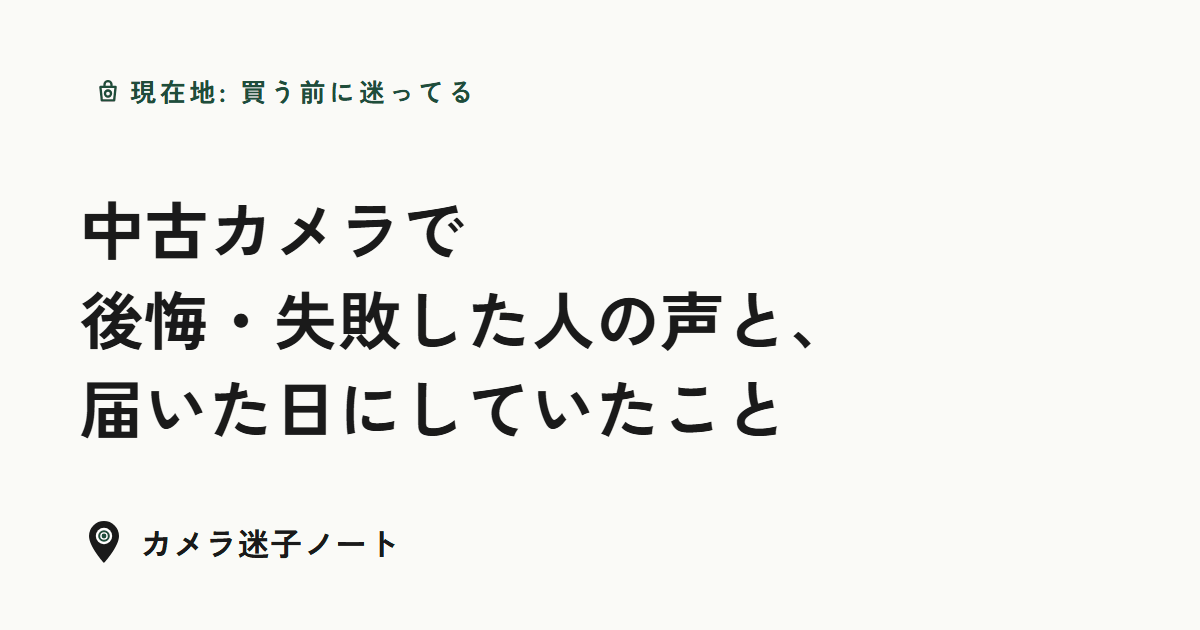
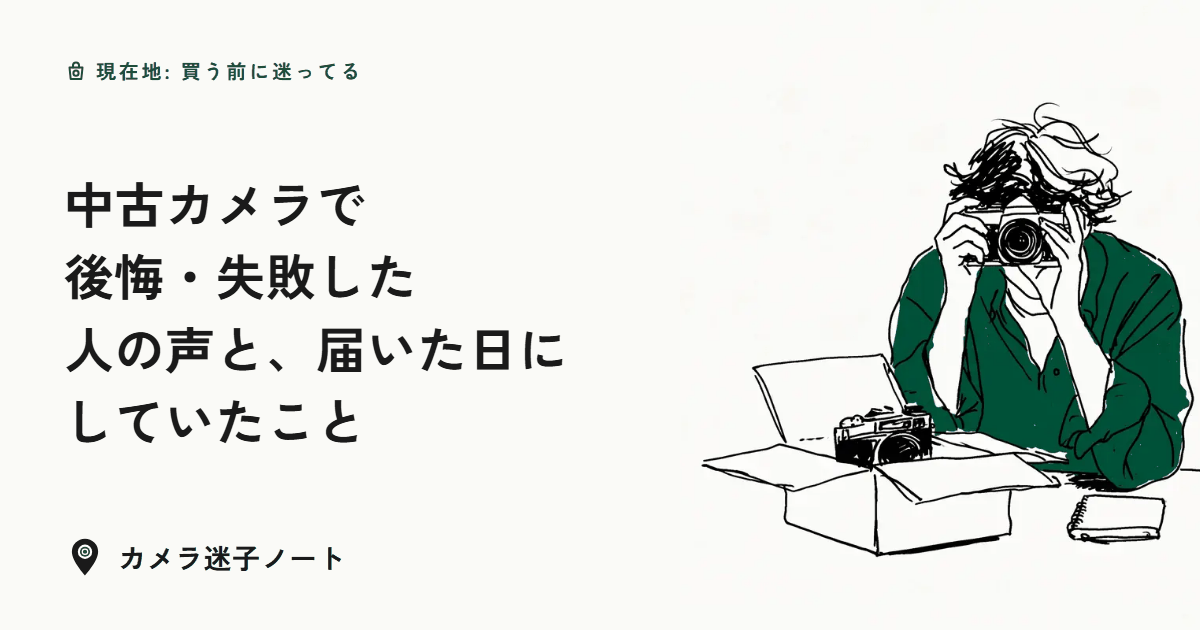
Add eyecatch illustrations for chuko, tsuzukanai, erabikata (MJ v8.2 line art), regenerate their OGP

diff --git a/chuko/index.html b/chuko/index.html
@@ -13,7 +13,7 @@
 <meta property="og:description" content="中古カメラで後悔・失敗した人の声を77人分読むと、気をつける点は3つでした。買う前に店の初期不良の受付期間と保証の例外を見る、届いた日に試す、フリマは受取評価の前に連絡する。専門店でも外れた人、フリマでうまくいった人の両方の声と、キタムラ・フジヤ・マップカメラの条件(2026年10月時点)、型落ち機の修理対応期間の調べ方も。">
 <meta property="og:url" content="https://uuhai0625.github.io/camera-maigo-note/chuko/">
 <meta property="og:locale" content="ja_JP">
-<meta property="og:image" content="https://uuhai0625.github.io/camera-maigo-note/chuko/ogp.png?v=90982f4f">
+<meta property="og:image" content="https://uuhai0625.github.io/camera-maigo-note/chuko/ogp.png?v=077e0e13">
 <meta property="og:image:width" content="1200">
 <meta property="og:image:height" content="630">
 <meta name="twitter:card" content="summary_large_image">
@@ -27,7 +27,7 @@
 <link rel="stylesheet" href="../style.css">
 <script src="../ga.js" defer></script>
 <script type="application/ld+json">
-{"@context": "https://schema.org", "@graph": [{"@type": "Article", "headline": "中古カメラで後悔・失敗した人の声と、届いた日にしていたこと", "description": "中古カメラで後悔・失敗した人の声を77人分読むと、気をつける点は3つでした。買う前に店の初期不良の受付期間と保証の例外を見る、届いた日に試す、フリマは受取評価の前に連絡する。専門店でも外れた人、フリマでうまくいった人の両方の声と、キタムラ・フジヤ・マップカメラの条件(2026年10月時点)、型落ち機の修理対応期間の調べ方も。", "url": "https://uuhai0625.github.io/camera-maigo-note/chuko/", "mainEntityOfPage": "https://uuhai0625.github.io/camera-maigo-note/chuko/", "datePublished": "2026-10-14T09:00:00+09:00", "dateModified": "2026-10-15T09:00:00+09:00", "inLanguage": "ja", "author": {"@type": "Organization", "name": "カメラ迷子ノート", "url": "https://uuhai0625.github.io/camera-maigo-note/about/"}, "publisher": {"@type": "Organization", "name": "カメラ迷子ノート", "url": "https://uuhai0625.github.io/camera-maigo-note/", "logo": {"@type": "ImageObject", "url": "https://uuhai0625.github.io/camera-maigo-note/images/logo-square-512.png"}}, "image": "https://uuhai0625.github.io/camera-maigo-note/chuko/ogp.png?v=90982f4f"}, {"@type": "BreadcrumbList", "itemListElement": [{"@type": "ListItem", "position": 1, "name": "カメラ迷子ノート", "item": "https://uuhai0625.github.io/camera-maigo-note/"}, {"@type": "ListItem", "position": 2, "name": "買う前に迷ってる", "item": "https://uuhai0625.github.io/camera-maigo-note/#before"}, {"@type": "ListItem", "position": 3, "name": "中古カメラで後悔・失敗した人の声と、届いた日にしていたこと", "item": "https://uuhai0625.github.io/camera-maigo-note/chuko/"}]}]}
+{"@context": "https://schema.org", "@graph": [{"@type": "Article", "headline": "中古カメラで後悔・失敗した人の声と、届いた日にしていたこと", "description": "中古カメラで後悔・失敗した人の声を77人分読むと、気をつける点は3つでした。買う前に店の初期不良の受付期間と保証の例外を見る、届いた日に試す、フリマは受取評価の前に連絡する。専門店でも外れた人、フリマでうまくいった人の両方の声と、キタムラ・フジヤ・マップカメラの条件(2026年10月時点)、型落ち機の修理対応期間の調べ方も。", "url": "https://uuhai0625.github.io/camera-maigo-note/chuko/", "mainEntityOfPage": "https://uuhai0625.github.io/camera-maigo-note/chuko/", "datePublished": "2026-10-14T09:00:00+09:00", "dateModified": "2026-10-15T09:00:00+09:00", "inLanguage": "ja", "author": {"@type": "Organization", "name": "カメラ迷子ノート", "url": "https://uuhai0625.github.io/camera-maigo-note/about/"}, "publisher": {"@type": "Organization", "name": "カメラ迷子ノート", "url": "https://uuhai0625.github.io/camera-maigo-note/", "logo": {"@type": "ImageObject", "url": "https://uuhai0625.github.io/camera-maigo-note/images/logo-square-512.png"}}, "image": "https://uuhai0625.github.io/camera-maigo-note/chuko/ogp.png?v=077e0e13"}, {"@type": "BreadcrumbList", "itemListElement": [{"@type": "ListItem", "position": 1, "name": "カメラ迷子ノート", "item": "https://uuhai0625.github.io/camera-maigo-note/"}, {"@type": "ListItem", "position": 2, "name": "買う前に迷ってる", "item": "https://uuhai0625.github.io/camera-maigo-note/#before"}, {"@type": "ListItem", "position": 3, "name": "中古カメラで後悔・失敗した人の声と、届いた日にしていたこと", "item": "https://uuhai0625.github.io/camera-maigo-note/chuko/"}]}]}
 </script>
 </head>
 <body>
@@ -47,6 +47,7 @@
 <p class="here"><svg class="icon" width="14" height="14" viewBox="0 0 24 24" fill="none" stroke="currentColor" stroke-width="2" stroke-linecap="round" stroke-linejoin="round" aria-hidden="true"><path d="M5.5 8.5h13l-1.2 11.5H6.7z"/><path d="M9 8.5V6.5a3 3 0 0 1 6 0v2"/><circle cx="12" cy="14.2" r="2.6"/></svg>現在地: 買う前に迷ってる</p>
 <h1>中古カメラで後悔・失敗した人の声と、届いた日にしていたこと</h1>
 <p class="meta">公開 2026-10-14 / 更新 2026-10-15</p>
+<figure class="pic eyecatch"><img src="../images/illust/eye-chuko.webp" srcset="../images/illust/eye-chuko-m.webp 720w, ../images/illust/eye-chuko.webp 1200w" sizes="(max-width: 760px) calc(100vw - 32px), 720px" width="1200" height="800" alt="開けた段ボール箱の横で、届いたカメラをのぞいて確かめている人の線画イラスト" fetchpriority="high" decoding="async"></figure>
 <p>中古カメラやレンズを買って、後悔・失敗した人と満足した人の声を77人分読みました。専門店で買っても外れた人はいて、フリマで買ってうまくいった人もいます。外れたときにどう戻れるかは買う場所で違い、その条件は買う前に公式ページで分かるものでした。読んだ声から、気をつける点は3つです。</p>
 <ul><li>買う前に、初期不良の受付期間と保証の例外を店の公式ページで見る(<a href="#hosho">3店の条件</a>)</li><li>届いた日に試す(<a href="#todoita">届いた日にやること</a>)</li><li>フリマなら、受取評価の前に出品者か事務局へ連絡する</li></ul>
 <p>私はカメラを持っていないので、note・個人ブログ・知恵袋で、自分が中古を買った話を書いた人の声を集めて整理する側です。中古で買おうか迷っている人と、届いたばかりの人に向けて書きました。中古に限らない買った後の後悔は、<a href="../koukai-koe/">一眼レフ・ミラーレスを買ったけど後悔…</a>にあります。</p>

diff --git a/tsuzukanai/index.html b/tsuzukanai/index.html
@@ -13,7 +13,7 @@
 <meta property="og:description" content="カメラが続かない・飽きた人の声を64人分読むと、止まった44人のその後は、やめた・止まったまま・戻った・細く続けるの4通り。また撮り始めたきっかけはばらばらで、新しく買って戻った人も手元のカメラで戻った人もいました。全部手放した6人のうち4人がまた買った・買う予定。売る・置いておくの声も。">
 <meta property="og:url" content="https://uuhai0625.github.io/camera-maigo-note/tsuzukanai/">
 <meta property="og:locale" content="ja_JP">
-<meta property="og:image" content="https://uuhai0625.github.io/camera-maigo-note/tsuzukanai/ogp.png?v=22a4b232">
+<meta property="og:image" content="https://uuhai0625.github.io/camera-maigo-note/tsuzukanai/ogp.png?v=f3762b17">
 <meta property="og:image:width" content="1200">
 <meta property="og:image:height" content="630">
 <meta name="twitter:card" content="summary_large_image">
@@ -27,7 +27,7 @@
 <link rel="stylesheet" href="../style.css">
 <script src="../ga.js" defer></script>
 <script type="application/ld+json">
-{"@context": "https://schema.org", "@graph": [{"@type": "Article", "headline": "カメラが続かない・飽きた人のその後と、また撮り始めたきっかけ", "description": "カメラが続かない・飽きた人の声を64人分読むと、止まった44人のその後は、やめた・止まったまま・戻った・細く続けるの4通り。また撮り始めたきっかけはばらばらで、新しく買って戻った人も手元のカメラで戻った人もいました。全部手放した6人のうち4人がまた買った・買う予定。売る・置いておくの声も。", "url": "https://uuhai0625.github.io/camera-maigo-note/tsuzukanai/", "mainEntityOfPage": "https://uuhai0625.github.io/camera-maigo-note/tsuzukanai/", "datePublished": "2026-10-14T09:00:00+09:00", "dateModified": "2026-10-14T09:00:00+09:00", "inLanguage": "ja", "author": {"@type": "Organization", "name": "カメラ迷子ノート", "url": "https://uuhai0625.github.io/camera-maigo-note/about/"}, "publisher": {"@type": "Organization", "name": "カメラ迷子ノート", "url": "https://uuhai0625.github.io/camera-maigo-note/", "logo": {"@type": "ImageObject", "url": "https://uuhai0625.github.io/camera-maigo-note/images/logo-square-512.png"}}, "image": "https://uuhai0625.github.io/camera-maigo-note/tsuzukanai/ogp.png?v=22a4b232"}, {"@type": "BreadcrumbList", "itemListElement": [{"@type": "ListItem", "position": 1, "name": "カメラ迷子ノート", "item": "https://uuhai0625.github.io/camera-maigo-note/"}, {"@type": "ListItem", "position": 2, "name": "続けるか迷ってる", "item": "https://uuhai0625.github.io/camera-maigo-note/#keep"}, {"@type": "ListItem", "position": 3, "name": "カメラが続かない・飽きた人のその後と、また撮り始めたきっかけ", "item": "https://uuhai0625.github.io/camera-maigo-note/tsuzukanai/"}]}]}
+{"@context": "https://schema.org", "@graph": [{"@type": "Article", "headline": "カメラが続かない・飽きた人のその後と、また撮り始めたきっかけ", "description": "カメラが続かない・飽きた人の声を64人分読むと、止まった44人のその後は、やめた・止まったまま・戻った・細く続けるの4通り。また撮り始めたきっかけはばらばらで、新しく買って戻った人も手元のカメラで戻った人もいました。全部手放した6人のうち4人がまた買った・買う予定。売る・置いておくの声も。", "url": "https://uuhai0625.github.io/camera-maigo-note/tsuzukanai/", "mainEntityOfPage": "https://uuhai0625.github.io/camera-maigo-note/tsuzukanai/", "datePublished": "2026-10-14T09:00:00+09:00", "dateModified": "2026-10-14T09:00:00+09:00", "inLanguage": "ja", "author": {"@type": "Organization", "name": "カメラ迷子ノート", "url": "https://uuhai0625.github.io/camera-maigo-note/about/"}, "publisher": {"@type": "Organization", "name": "カメラ迷子ノート", "url": "https://uuhai0625.github.io/camera-maigo-note/", "logo": {"@type": "ImageObject", "url": "https://uuhai0625.github.io/camera-maigo-note/images/logo-square-512.png"}}, "image": "https://uuhai0625.github.io/camera-maigo-note/tsuzukanai/ogp.png?v=f3762b17"}, {"@type": "BreadcrumbList", "itemListElement": [{"@type": "ListItem", "position": 1, "name": "カメラ迷子ノート", "item": "https://uuhai0625.github.io/camera-maigo-note/"}, {"@type": "ListItem", "position": 2, "name": "続けるか迷ってる", "item": "https://uuhai0625.github.io/camera-maigo-note/#keep"}, {"@type": "ListItem", "position": 3, "name": "カメラが続かない・飽きた人のその後と、また撮り始めたきっかけ", "item": "https://uuhai0625.github.io/camera-maigo-note/tsuzukanai/"}]}]}
 </script>
 </head>
 <body>
@@ -47,6 +47,7 @@
 <p class="here"><svg class="icon" width="14" height="14" viewBox="0 0 24 24" fill="none" stroke="currentColor" stroke-width="2" stroke-linecap="round" stroke-linejoin="round" aria-hidden="true"><path d="M12 21V3.5"/><path d="M12 5h6l2 2-2 2h-6"/><path d="M12 11H6l-2 2 2 2h6"/><path d="M9 21h6"/></svg>現在地: 続けるか迷ってる</p>
 <h1>カメラが続かない・飽きた人のその後と、また撮り始めたきっかけ</h1>
 <p class="meta">公開 2026-10-14 / 更新 2026-10-14</p>
+<figure class="pic eyecatch"><img src="../images/illust/eye-tsuzuku.webp" srcset="../images/illust/eye-tsuzuku-m.webp 720w, ../images/illust/eye-tsuzuku.webp 1200w" sizes="(max-width: 760px) calc(100vw - 32px), 720px" width="1200" height="800" alt="棚の上に置いたままだったカメラに、手を伸ばしている人の後ろ姿の線画イラスト" fetchpriority="high" decoding="async"></figure>
 <p>カメラが続かない、飽きた、という声を64人分読み、止まった時期を書いた44人のその後を並べると、やめた・止まったまま・また撮り始めた・細く続けている、の4通りに分かれました。また撮り始めた人のきっかけはばらばらで、新しくカメラを買って戻った人も、手元に残していたカメラで戻った人もいます。全部手放した6人のうち4人は、また買ったか、買おうとしていました。</p>
 <p>この記事は、もう持っていて撮る回数が減ってきた人向けです。買う前にやめとけと言われる理由を知りたい人は<a href="../yametoke/">カメラ趣味はやめとけ?</a>へ、重くて持ち出さなくなった人は<a href="../omoi/">一眼レフが重くて使わなくなった…</a>へどうぞ。私はカメラを持っていないので、noteと知恵袋と個人ブログで本人が書いたものを人単位で数えています。分け方は私の読み方で、各節の出典リンクから元の文章を確かめられます。</p>
 <h2 id="sonogo">カメラが続かない・飽きた人のその後は4通り(早見表)</h2>

diff --git a/erabikata/index.html b/erabikata/index.html
@@ -13,7 +13,7 @@
 <meta property="og:description" content="カメラを買うか迷ったら、スマホで足りるか・続きそうか・重さ・決め手・機種・中古の6つを順に確かめると整理しやすいです。買った人・やめた人の声と公式情報をまとめた記事への道案内で、機種のおすすめはしません。">
 <meta property="og:url" content="https://uuhai0625.github.io/camera-maigo-note/erabikata/">
 <meta property="og:locale" content="ja_JP">
-<meta property="og:image" content="https://uuhai0625.github.io/camera-maigo-note/erabikata/ogp.png?v=17c666a8">
+<meta property="og:image" content="https://uuhai0625.github.io/camera-maigo-note/erabikata/ogp.png?v=da5967bf">
 <meta property="og:image:width" content="1200">
 <meta property="og:image:height" content="630">
 <meta name="twitter:card" content="summary_large_image">
@@ -27,7 +27,7 @@
 <link rel="stylesheet" href="../style.css">
 <script src="../ga.js" defer></script>
 <script type="application/ld+json">
-{"@context": "https://schema.org", "@graph": [{"@type": "Article", "headline": "カメラを買うか迷ったら読む順番 ― 買う前に確かめる6つ", "description": "カメラを買うか迷ったら、スマホで足りるか・続きそうか・重さ・決め手・機種・中古の6つを順に確かめると整理しやすいです。買った人・やめた人の声と公式情報をまとめた記事への道案内で、機種のおすすめはしません。", "url": "https://uuhai0625.github.io/camera-maigo-note/erabikata/", "mainEntityOfPage": "https://uuhai0625.github.io/camera-maigo-note/erabikata/", "datePublished": "2026-10-15T09:00:00+09:00", "dateModified": "2026-10-15T09:00:00+09:00", "inLanguage": "ja", "author": {"@type": "Organization", "name": "カメラ迷子ノート", "url": "https://uuhai0625.github.io/camera-maigo-note/about/"}, "publisher": {"@type": "Organization", "name": "カメラ迷子ノート", "url": "https://uuhai0625.github.io/camera-maigo-note/", "logo": {"@type": "ImageObject", "url": "https://uuhai0625.github.io/camera-maigo-note/images/logo-square-512.png"}}, "image": "https://uuhai0625.github.io/camera-maigo-note/erabikata/ogp.png?v=17c666a8"}, {"@type": "BreadcrumbList", "itemListElement": [{"@type": "ListItem", "position": 1, "name": "カメラ迷子ノート", "item": "https://uuhai0625.github.io/camera-maigo-note/"}, {"@type": "ListItem", "position": 2, "name": "買う前に迷ってる", "item": "https://uuhai0625.github.io/camera-maigo-note/#before"}, {"@type": "ListItem", "position": 3, "name": "カメラを買うか迷ったら読む順番 ― 買う前に確かめる6つ", "item": "https://uuhai0625.github.io/camera-maigo-note/erabikata/"}]}]}
+{"@context": "https://schema.org", "@graph": [{"@type": "Article", "headline": "カメラを買うか迷ったら読む順番 ― 買う前に確かめる6つ", "description": "カメラを買うか迷ったら、スマホで足りるか・続きそうか・重さ・決め手・機種・中古の6つを順に確かめると整理しやすいです。買った人・やめた人の声と公式情報をまとめた記事への道案内で、機種のおすすめはしません。", "url": "https://uuhai0625.github.io/camera-maigo-note/erabikata/", "mainEntityOfPage": "https://uuhai0625.github.io/camera-maigo-note/erabikata/", "datePublished": "2026-10-15T09:00:00+09:00", "dateModified": "2026-10-15T09:00:00+09:00", "inLanguage": "ja", "author": {"@type": "Organization", "name": "カメラ迷子ノート", "url": "https://uuhai0625.github.io/camera-maigo-note/about/"}, "publisher": {"@type": "Organization", "name": "カメラ迷子ノート", "url": "https://uuhai0625.github.io/camera-maigo-note/", "logo": {"@type": "ImageObject", "url": "https://uuhai0625.github.io/camera-maigo-note/images/logo-square-512.png"}}, "image": "https://uuhai0625.github.io/camera-maigo-note/erabikata/ogp.png?v=da5967bf"}, {"@type": "BreadcrumbList", "itemListElement": [{"@type": "ListItem", "position": 1, "name": "カメラ迷子ノート", "item": "https://uuhai0625.github.io/camera-maigo-note/"}, {"@type": "ListItem", "position": 2, "name": "買う前に迷ってる", "item": "https://uuhai0625.github.io/camera-maigo-note/#before"}, {"@type": "ListItem", "position": 3, "name": "カメラを買うか迷ったら読む順番 ― 買う前に確かめる6つ", "item": "https://uuhai0625.github.io/camera-maigo-note/erabikata/"}]}]}
 </script>
 </head>
 <body>
@@ -46,6 +46,7 @@
 <p class="here"><svg class="icon" width="14" height="14" viewBox="0 0 24 24" fill="none" stroke="currentColor" stroke-width="2" stroke-linecap="round" stroke-linejoin="round" aria-hidden="true"><path d="M5.5 8.5h13l-1.2 11.5H6.7z"/><path d="M9 8.5V6.5a3 3 0 0 1 6 0v2"/><circle cx="12" cy="14.2" r="2.6"/></svg>現在地: 買う前に迷ってる</p>
 <h1>カメラを買うか迷ったら読む順番 ― 買う前に確かめる6つ</h1>
 <p class="meta">公開 2026-10-15 / 更新 2026-10-15</p>
+<figure class="pic eyecatch"><img src="../images/illust/eye-erabi.webp" srcset="../images/illust/eye-erabi-m.webp 720w, ../images/illust/eye-erabi.webp 1200w" sizes="(max-width: 760px) calc(100vw - 32px), 720px" width="1200" height="800" alt="ベンチに座って地図を広げている人と、横に置いたカメラの線画イラスト" fetchpriority="high" decoding="async"></figure>
 <p>一眼やミラーレスが気になっていても、機種名から調べ始めると迷いやすいです。このページでは、買う前に確かめたいことを6つの問いにして、答えの材料になる記事を並べました。一眼レフは鏡を使ってのぞくタイプ、ミラーレスはセンサー(光を受け止める板)が見た映像を画面でのぞくタイプのカメラです(<a class="term" aria-label="一眼レフとミラーレスの違いの言葉の意味" href="../yougo/#ichigan-mirrorless">言葉の意味</a>)。</p>
 <p>私はカメラを持っていないので、機種のおすすめはしません。リンク先は、実際に買った人・やめた人・続けている人の声と、メーカーの公式ページを読んでまとめた記事です。順番は、考えるだけで済む問いから、お金が動く問いへ、と私が並べました。気になる問いから読んでも大丈夫です。リンク先の記事の一部には広告(アフィリエイトリンク)があり、その記事の冒頭に表示しています。</p>
 <h2 id="iru">1. そもそも、カメラはいる? スマホで足りない場面があるか</h2>

diff --git a/index.html b/index.html
@@ -62,12 +62,12 @@
     <h2 id="before-h"><svg class="icon" width="22" height="22" viewBox="0 0 24 24" fill="none" stroke="currentColor" stroke-width="2" stroke-linecap="round" stroke-linejoin="round" aria-hidden="true"><path d="M5.5 8.5h13l-1.2 11.5H6.7z"/><path d="M9 8.5V6.5a3 3 0 0 1 6 0v2"/><circle cx="12" cy="14.2" r="2.6"/></svg>買う前に迷ってる</h2>
     <p>本当にいる? スマホで十分? 買って後悔した人の声から考える</p>
     <ul class="stops">
-      <li class="start"><a href="erabikata/"><span class="badge">はじめに</span>カメラを買うか迷ったら読む順番 ― 買う前に確かめる6つ</a></li>
+      <li class="has-thumb"><a href="erabikata/"><img src="images/illust/eye-erabi-s.webp" width="360" height="240" alt="" loading="lazy" decoding="async"><span>カメラを買うか迷ったら読む順番 ― 買う前に確かめる6つ</span></a></li>
       <li class="has-thumb"><a href="koukai-koe/"><img src="images/illust/eye-koukai-s.webp" width="360" height="240" alt="" loading="lazy" decoding="async"><span>一眼レフ・ミラーレスを買ったけど後悔…体験談で目立ったのは性能以外の理由</span></a></li>
       <li class="has-thumb"><a href="smartphone-jubun/"><img src="images/illust/eye-smart-s.webp" width="360" height="240" alt="" loading="lazy" decoding="async"><span>スマホで十分、一眼はいらない?カメラで差が出やすい3つの場面</span></a></li>
       <li class="has-thumb"><a href="saisho-ichidai/"><img src="images/illust/eye-saisho-s.webp" width="360" height="240" alt="" loading="lazy" decoding="async"><span>初めてのカメラ、最初の一台は何で決めた?後悔した人・満足した人の声</span></a></li>
       <li class="has-thumb"><a href="kisyu-koe/"><img src="images/illust/eye-kisyu-s.webp" width="360" height="240" alt="" loading="lazy" decoding="async"><span>初心者が最初に買ったカメラ、口コミで多かった機種と後悔の声</span></a></li>
-      <li><a href="chuko/">中古カメラで後悔・失敗した人の声と、届いた日にしていたこと</a></li>
+      <li class="has-thumb"><a href="chuko/"><img src="images/illust/eye-chuko-s.webp" width="360" height="240" alt="" loading="lazy" decoding="async"><span>中古カメラで後悔・失敗した人の声と、届いた日にしていたこと</span></a></li>
     </ul>
   </section>
   <section class="destination" id="stuck" aria-labelledby="stuck-h">
@@ -90,7 +90,7 @@
     <p>やめとけ、続かない、恥ずかしい。やめた人の声も続けた人の声も</p>
     <ul class="stops">
       <li class="has-thumb"><a href="yametoke/"><img src="images/illust/eye-yame-s.webp" width="360" height="240" alt="" loading="lazy" decoding="async"><span>カメラ趣味はやめとけ?やめた人・続けた人11件の声から理由を数えてみた</span></a></li>
-      <li><a href="tsuzukanai/">カメラが続かない・飽きた人のその後と、また撮り始めたきっかけ</a></li>
+      <li class="has-thumb"><a href="tsuzukanai/"><img src="images/illust/eye-tsuzuku-s.webp" width="360" height="240" alt="" loading="lazy" decoding="async"><span>カメラが続かない・飽きた人のその後と、また撮り始めたきっかけ</span></a></li>
       <li class="has-thumb"><a href="hazukashii/"><img src="images/illust/eye-hazu-s.webp" width="360" height="240" alt="" loading="lazy" decoding="async"><span>カメラを持ち歩くのが恥ずかしいとき、人が試した工夫とその後</span></a></li>
     </ul>
   </section>
